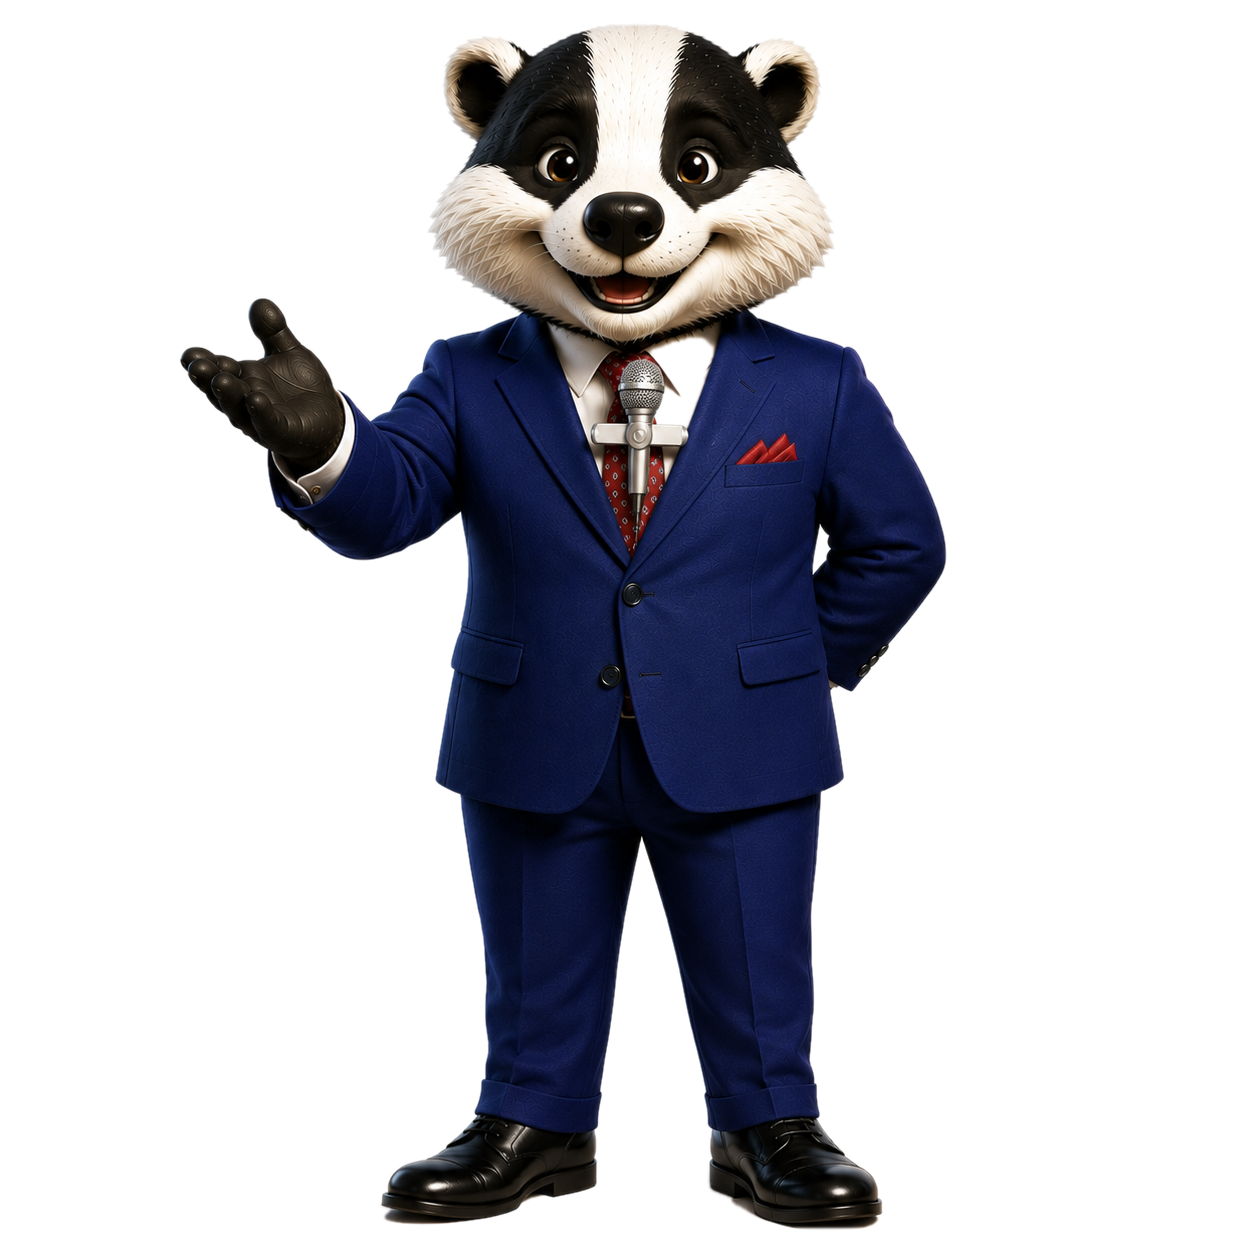
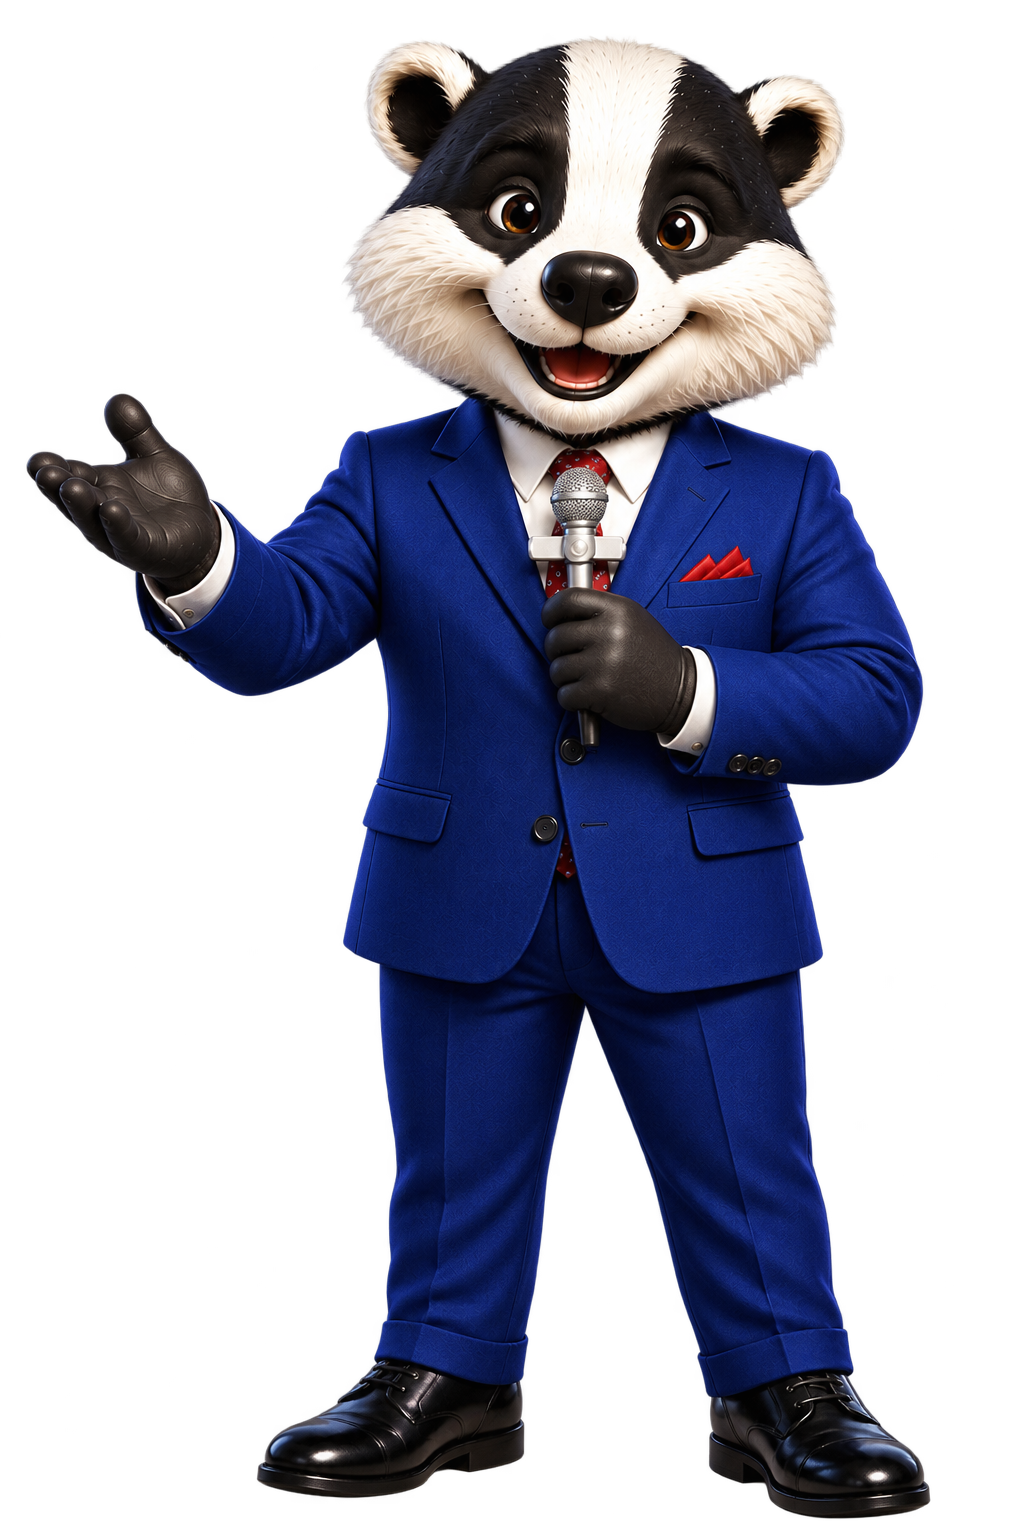
Add files via upload

diff --git a/styles.css b/styles.css
@@ -48,15 +48,22 @@ button{font:inherit}
 .timer-ring strong{font-family:Anton,sans-serif;font-size:35px;line-height:1}
 .timer-ring small{font-size:9px;font-weight:900}
 .logo-stage{
- height:100%;min-width:0;display:flex;align-items:center;justify-content:center;
- padding:0 8%;
- overflow:hidden;
+ height:100%;min-width:0;
+ display:flex;align-items:center;justify-content:center;
+ padding:0 5%;
+ overflow:visible;
+ background:transparent;
 }
 .main-logo{
- display:block;width:auto;height:auto;max-width:78%;max-height:100%;object-fit:contain;
- border-radius:18px;
- box-shadow:0 0 0 10px rgba(3,5,45,.25);
- filter:drop-shadow(0 13px 18px rgba(0,0,0,.35));
+ display:block;
+ width:auto;height:auto;
+ max-width:82%;max-height:100%;
+ object-fit:contain;
+ background:transparent;
+ border:0;
+ border-radius:0;
+ box-shadow:none;
+ filter:drop-shadow(0 12px 16px rgba(0,0,0,.34));
 }
 
 /* QUESTION */
@@ -112,8 +119,10 @@ button{font:inherit}
 
 /* RIGHT */
 .right-zone{
- display:grid;grid-template-columns:minmax(340px,1.08fr) minmax(230px,.72fr);
- gap:20px;align-items:center
+ display:grid;
+ grid-template-columns:minmax(350px,1.12fr) minmax(260px,.78fr);
+ gap:24px;
+ align-items:center
 }
 .ladder-panel{
  width:100%;align-self:center;padding:14px 12px;
@@ -135,12 +144,25 @@ button{font:inherit}
 .ladder-item.current.jackpot{background:linear-gradient(#ffd94b,#eda00a);color:#211300;border-color:#fff0a1}
 
 .badger-wrap{
- height:76vh;align-self:end;display:flex;align-items:flex-end;justify-content:center;
- overflow:visible
+ height:78vh;
+ align-self:end;
+ display:flex;
+ align-items:flex-end;
+ justify-content:center;
+ overflow:visible;
+ background:transparent;
+ padding:0;
 }
 .badger{
- display:block;width:auto;height:auto;max-width:100%;max-height:100%;object-fit:contain;
- filter:drop-shadow(0 16px 18px rgba(0,0,0,.42))
+ display:block;
+ width:auto;height:auto;
+ max-width:100%;max-height:100%;
+ object-fit:contain;
+ object-position:center bottom;
+ background:transparent;
+ border:0;
+ box-shadow:none;
+ filter:drop-shadow(0 15px 17px rgba(0,0,0,.38));
 }
 
 /* OVERLAY */

diff --git a/index.html b/index.html
@@ -32,7 +32,7 @@
         </div>
 
         <div class="logo-stage">
-          <img src="assets/show-do-chopao-logo.png" alt="Show do Chopão" class="main-logo">
+          <img src="assets/show-do-chopao-logo.png?v=6" alt="Show do Chopão" class="main-logo">
         </div>
       </div>
 
@@ -77,7 +77,7 @@
       </section>
 
       <div class="badger-wrap">
-        <img src="assets/texugo-apresentador.png" alt="Texugo apresentador" class="badger">
+        <img src="assets/texugo-apresentador.png?v=6" alt="Texugo apresentador" class="badger">
       </div>
     </aside>
   </main>

diff --git a/README.md b/README.md
@@ -1,11 +1,10 @@
-# Show do Chopão — V5
+# Show do Chopão — V6
 
-Correção focada no SITE:
-- layout refeito para impedir a logo de encostar/sobrepor a pergunta;
-- logo menor e centralizada em uma área própria;
-- texugo substituído pelo recorte limpo disponibilizado na conversa;
-- escada e texugo separados em colunas independentes;
-- proporções ajustadas para tela 16:9 / monitor widescreen;
-- mantém toda a lógica interativa da versão anterior.
+Esta versão usa EXATAMENTE os dois PNGs transparentes aprovados:
+- `assets/show-do-chopao-logo.png`
+- `assets/texugo-apresentador.png`
 
-Suba todos os arquivos do ZIP na raiz do GitHub/Vercel.
+Também foram removidos fundos, bordas e caixas CSS das imagens.
+As URLs receberam `?v=6` para evitar cache da versão antiga no Vercel/navegador.
+
+Suba TODO o conteúdo deste ZIP na raiz do repositório, incluindo a pasta `assets`.
